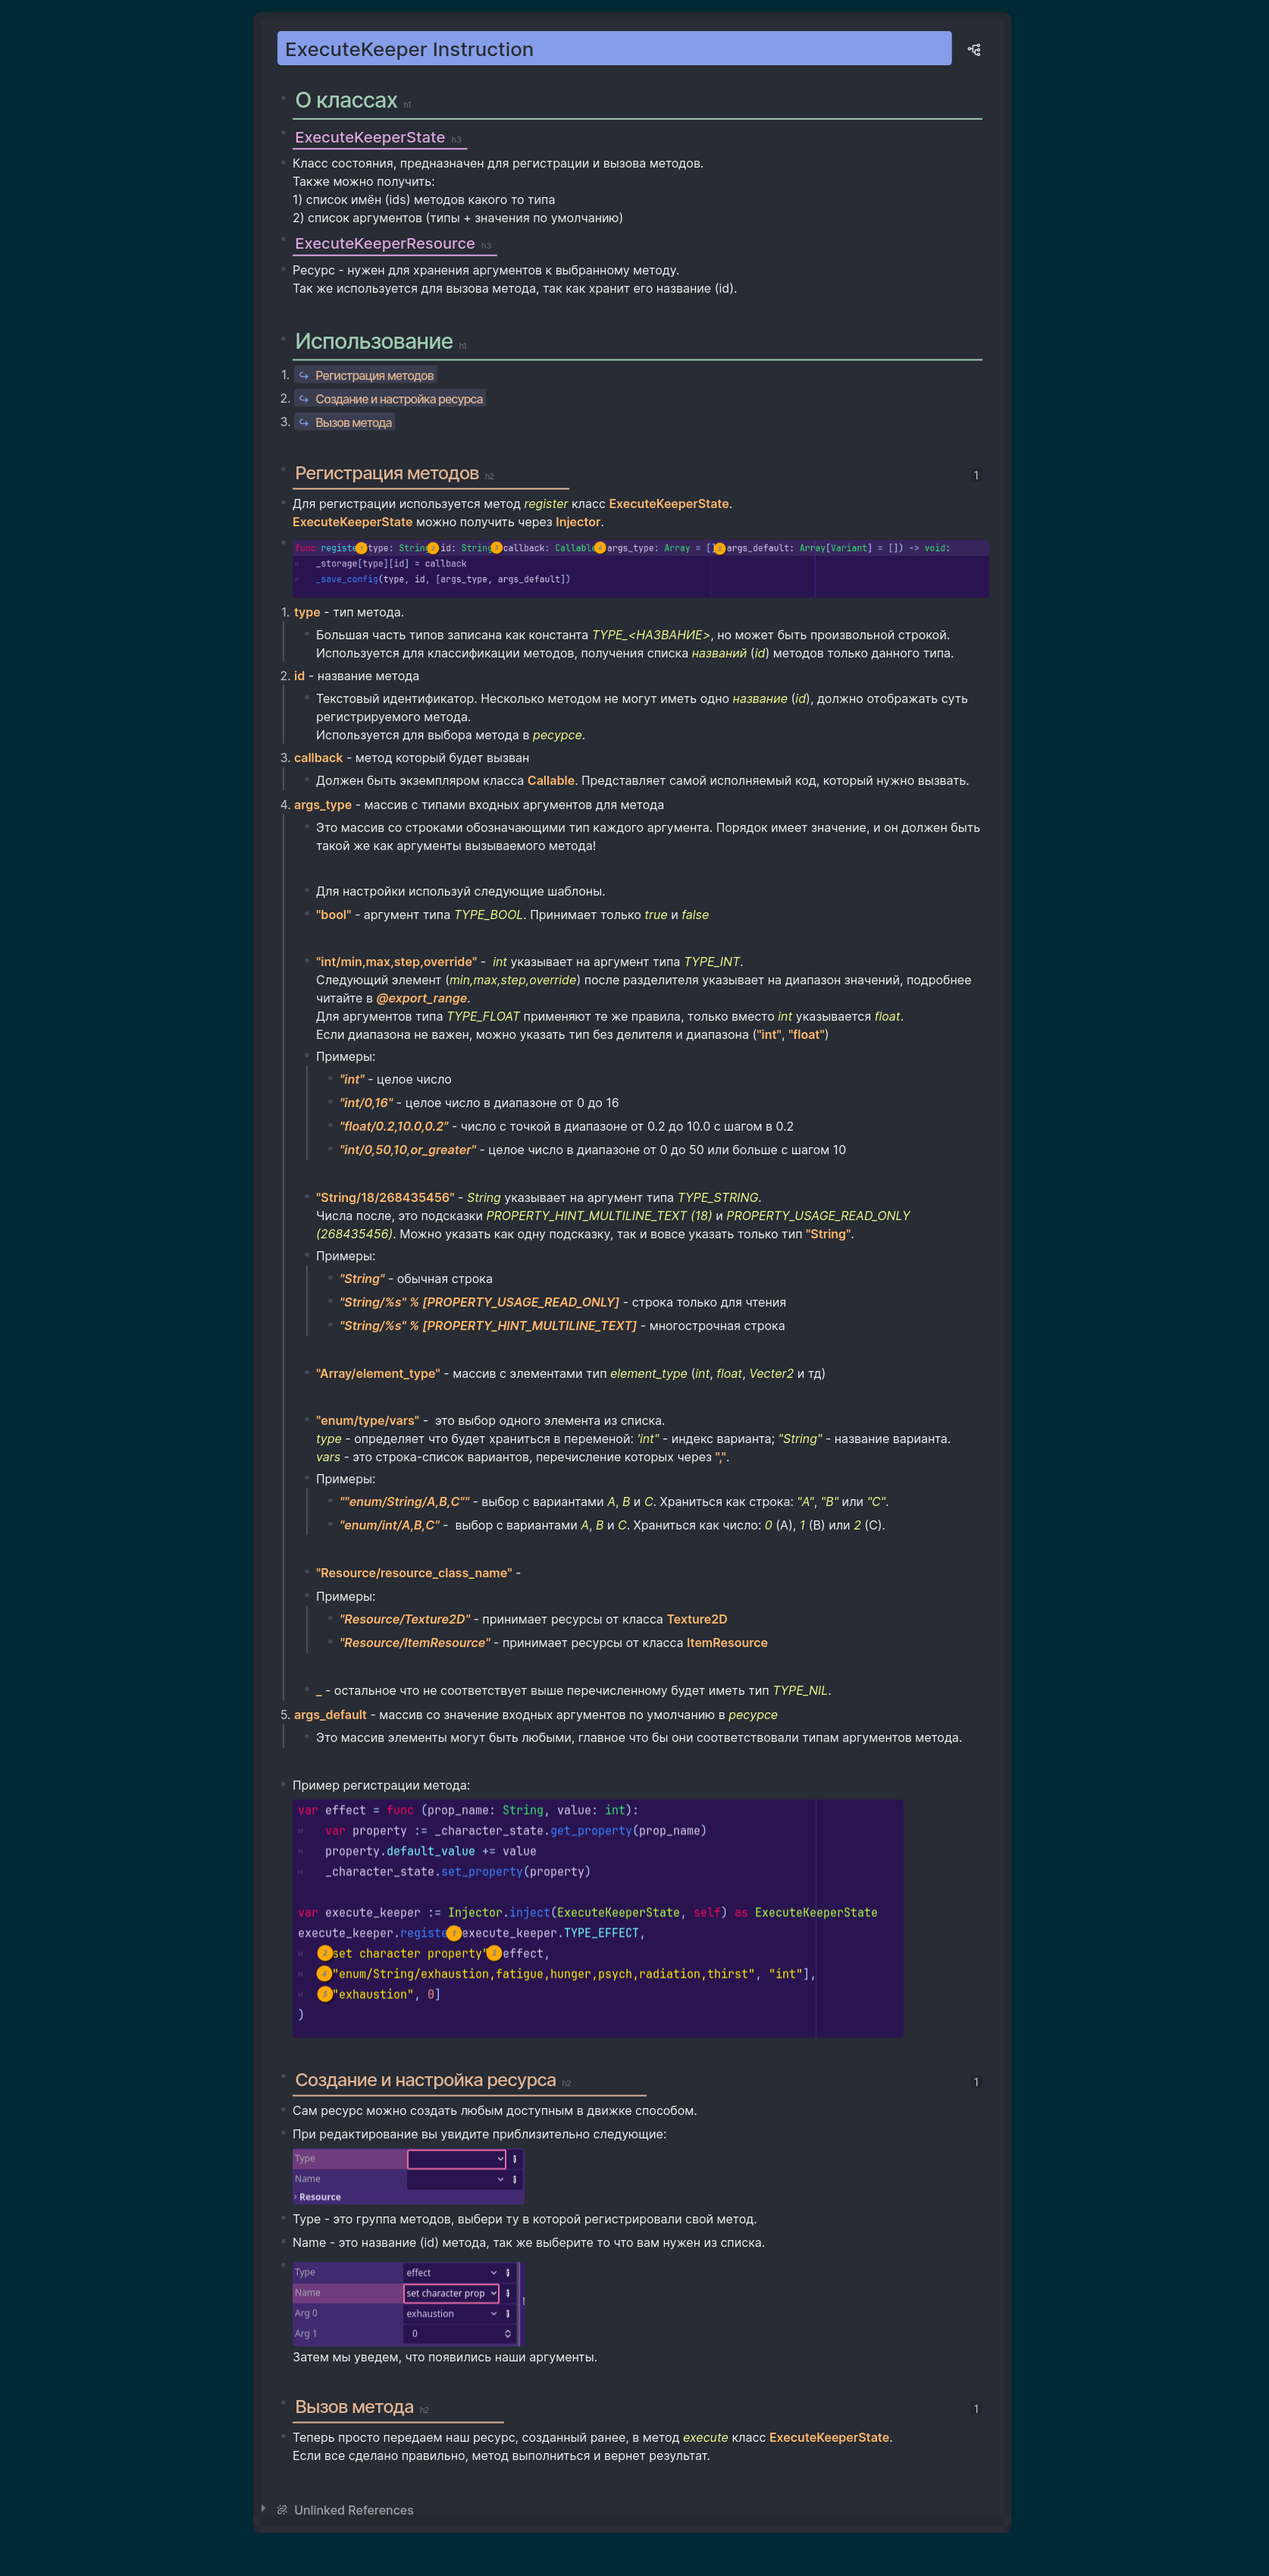
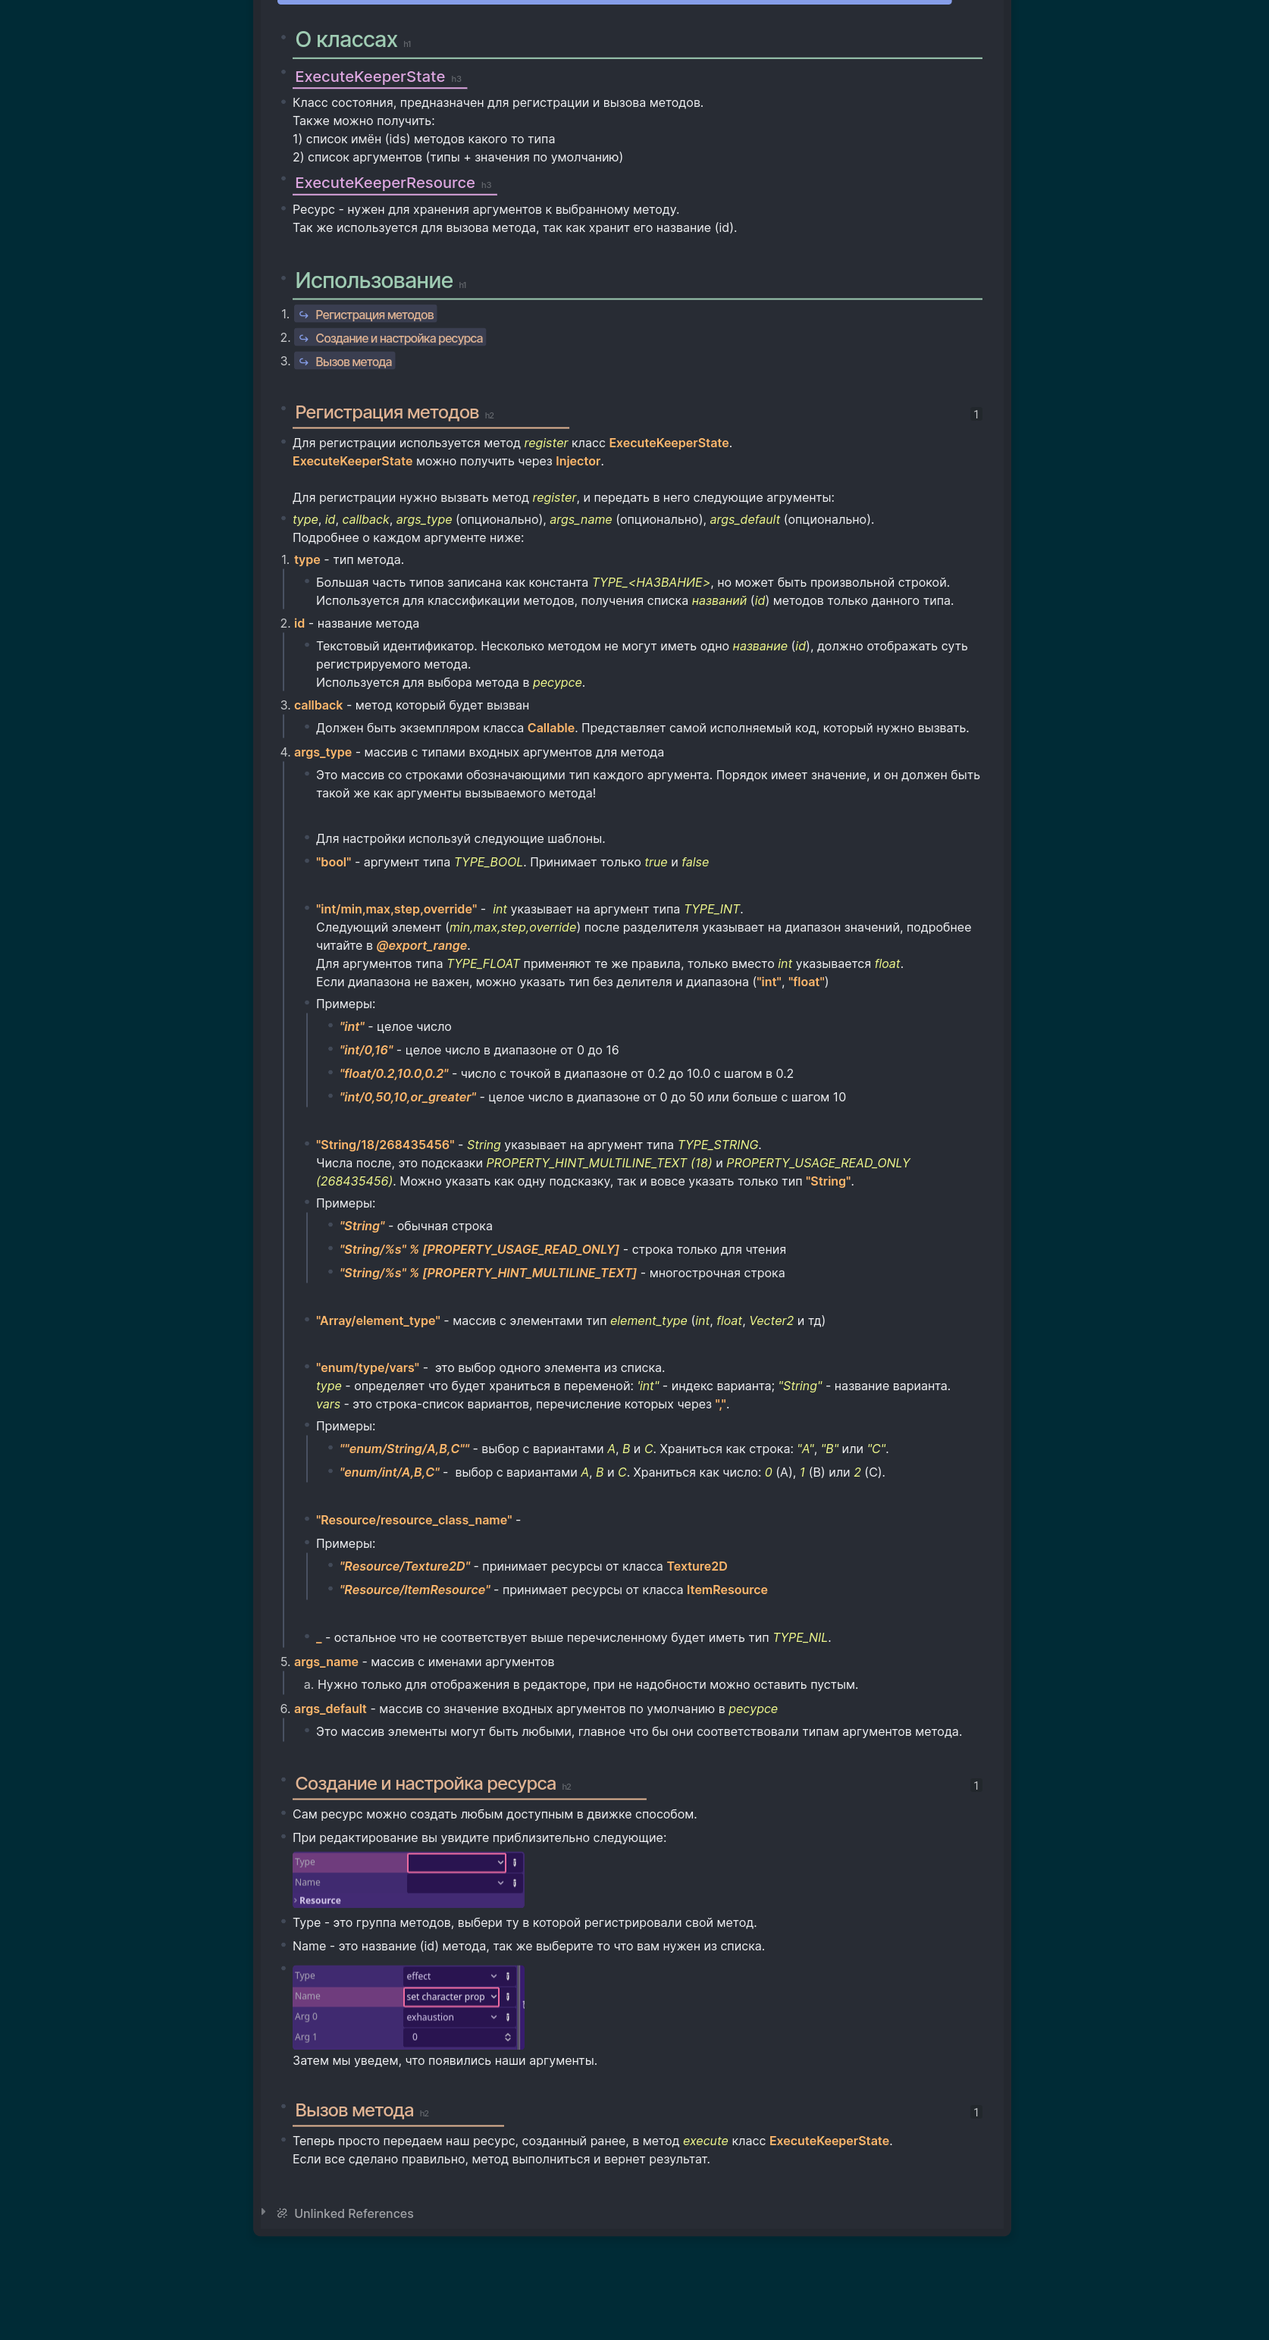
update ExecuteKeeper Instruction

Changed region(s): [[0.1864, 0.0, 0.8076, 0.9951], [0.6523, 0.5909, 0.6834, 0.622]]

diff --git a/feature/execute_keeper/ExecuteKeeper Instruction.md b/feature/execute_keeper/ExecuteKeeper Instruction.md
@@ -20,7 +20,10 @@
   id:: 67c41c74-f6b2-4acd-beef-86387af09dac
 - Для регистрации используется метод *register* класс **ExecuteKeeperState**.  
   **ExecuteKeeperState** можно получить через **Injector**.
-- ![image.png](../../assets/image_1740911265389_0.png){:width 960,:height 540}
+  
+  Для регистрации нужно вызвать метод *register*, и передать в него следующие агрументы:
+- *type*, *id*, *callback*, *args_type* (опционально), *args_name* (опционально), *args_default* (опционально). 
+  Подробнее о каждом аргументе ниже:
 - **type** - тип метода.
   logseq.order-list-type:: number
 	- Большая часть типов записана как константа *TYPE_<НАЗВАНИЕ>*, но может быть произвольной строкой.
@@ -74,12 +77,13 @@
 		- ***"Resource/ItemResource"*** - принимает ресурсы от класса **ItemResource**
 	-
 	- **_** - остальное что не соответствует выше перечисленному будет иметь тип *TYPE_NIL*.
+- **args_name** - массив с именами аргументов
+  logseq.order-list-type:: number
+	- Нужно только для отображения в редакторе, при не надобности можно оставить пустым.
+	  logseq.order-list-type:: number
 - **args_default** - массив со значение входных аргументов по умолчанию в *ресурсе*
   logseq.order-list-type:: number
 	- Это массив элементы могут быть любыми, главное что бы они соответствовали типам аргументов метода.
-- logseq.order-list-type:: number
-- Пример регистрации метода: 
-  ![image.png](../../assets/image_1740918073901_0.png){:height 323, :width 806}
 -
 - ## Создание и настройка ресурса
   id:: 67c41c89-7c77-409b-b35d-20cfa7916543
